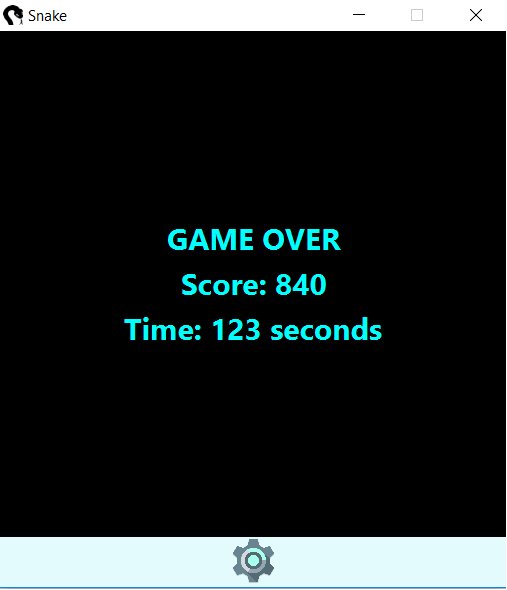
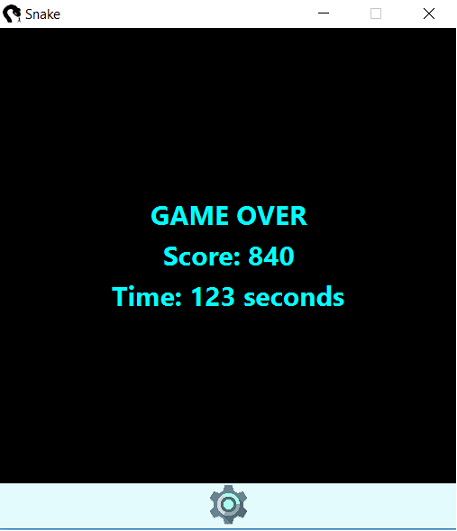
Changed size of images for github use

diff --git a/src/Controller/Controller.java b/src/Controller/Controller.java
@@ -8,6 +8,7 @@ package Controller;
 import Model.Converter;
 import Model.Game;
 import Model.Position;
+import Model.Settings;
 import View.BoardInfo;
 import View.BoardView;
 import View.SettingsView;
@@ -30,10 +31,12 @@ public class Controller {
     private BoardView boardView;
     private SettingsView settingView;
     private BoardInfo boardInfo;
+    private Settings settings;
 
     private Converter converter;
 
     public Controller(Game sharedGame, Converter converter) {
+        settings = Settings.getInstance();
         game = sharedGame;
         this.converter = converter;
     }
@@ -75,11 +78,11 @@ public class Controller {
             String keySelected = event.getCode().getName().toUpperCase();
             settingView.setLabel(keySelected);
         //ingame functions
-        } else if (event.getCode() == KeyCode.valueOf(boardView.getLeftKey())) {
+        } else if (event.getCode() == KeyCode.valueOf(settings.getLeftKey())) {
             game.goLeft();
-        } else if (event.getCode() == KeyCode.valueOf(boardView.getRightKey())) {
+        } else if (event.getCode() == KeyCode.valueOf(settings.getRightKey())) {
             game.goRight();
-        } else if (event.getCode() == KeyCode.valueOf(boardView.getRestartKey())) {
+        } else if (event.getCode() == KeyCode.valueOf(settings.getRestartKey())) {
             boardView.changeSizeToBoard();
             game.init();
             boardInfo.clearWormholeInfo();
